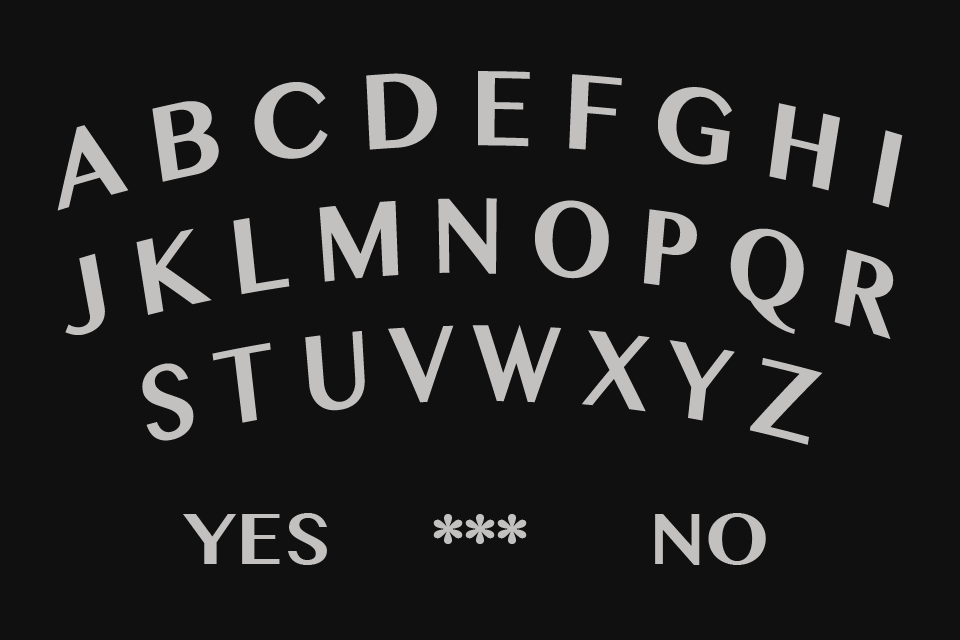
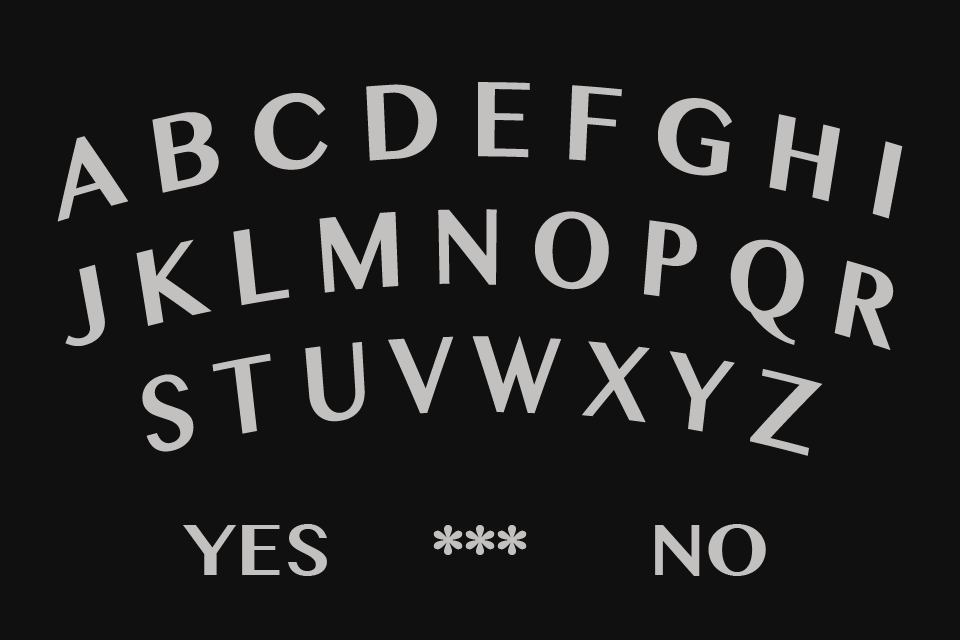
fixed background and styles

diff --git a/wwo.js b/wwo.js
@@ -2,146 +2,139 @@ var Rooms = new Meteor.Collection("rooms");
 var Forces = new Meteor.Collection("forces");
 var Messages = new Meteor.Collection("messages");
 
-
 if (Meteor.is_client) {
-Meteor.startup(function() {
-        Meteor.subscribe("rooms");
-        Meteor.subscribe("messages");
-        Meteor.setInterval(function() {
-          var theRoom = Rooms.findOne(Session.get("room"));
-         if (theRoom !== undefined)
-	 {
-          if (isNaN(Session.get("dx"))) Session.set("dx", 0);
-          if (isNaN(Session.get("dy"))) Session.set("dy", 0);
-          Meteor.call("updateMarker", Session.get("room"));
-          Meteor.call("getPosition", Session.get("room"), function(e,r) {
-           Session.set("posX", r.x);
-           Session.set("posY", r.y);
-          });
-          Forces.insert({
-            room: Session.get("room"),
-            x: Session.get("dx"),
-            y: Session.get("dy")
-          });
-         }
-       }, 100);
-});
+  Meteor.startup(function() {
+    Meteor.subscribe("rooms");
+    Meteor.subscribe("messages");
+    Meteor.setInterval(function() {
+      var theRoom = Rooms.findOne(Session.get("room"));
+      if (theRoom !== undefined)
+  	  {
+        if (isNaN(Session.get("dx"))) Session.set("dx", 0);
+        if (isNaN(Session.get("dy"))) Session.set("dy", 0);
+        Meteor.call("updateMarker", Session.get("room"));
+        Meteor.call("getPosition", Session.get("room"), function(e,r) {
+          Session.set("posX", r.x);
+          Session.set("posY", r.y);
+        });
+        Forces.insert({
+          room: Session.get("room"),
+          x: Session.get("dx"),
+          y: Session.get("dy")
+        });
+      }
+    }, 100);
+  });
+
+  Template.main.currentRoom = function() {
+    return Session.get("room") || false;
+  };
+
+  Template.rooms.availableRooms = function () {
+    return Rooms.find({});
+  };
 
   Template.rooms.events = {
     "click #addRoom": function () {
-        var roomName = $('#roomName').val();
-        if(roomName != "") {
-            Rooms.insert({
-              name: roomName
-            });
-        }
+      var roomName = $('#roomName').val();
+      if(roomName != "") {
+        Rooms.insert({name: roomName });
+      }
     }
-};
+  };
 
-Template.main.currentRoom = function() {
-    return Session.get("room") || false;
-};
-
-Template.rooms.availableRooms = function () {
-    return Rooms.find({});
-};
-
-Template.roomItem.events = {
+  Template.roomItem.events = {
     "click a.enter": function () {
-        if(Session.get("name") === undefined) {
-            var d = "Guest" + Math.floor(Math.random()*999);
-            var name = window.prompt("Name:", d);
-            if(name === "") name = d; 
-            Session.set("name", name);
-        }
-        Session.set("room", this._id);
+      if(Session.get("name") === undefined) {
+        var d = "Guest" + Math.floor(Math.random()*999);
+        var name = window.prompt("Name:", d);
+        if(name === "") name = d; 
+        Session.set("name", name);
+      }
+      Session.set("room", this._id);
     }
-};
+  };
 
-Template.room.events = {
+  Template.room.events = {
     "mousemove .gameBoard": function(e) {
-        var theRoom = Rooms.findOne(Session.get("room"));
-        Session.set("dx", ((e.pageX - parseInt($('.gameBoard').css("margin-left"))) - Session.get("posX"))/25);
-        Session.set("dy", ((e.pageY - 50) - Session.get("posY"))/25);
+      var theRoom = Rooms.findOne(Session.get("room"));
+      Session.set("dx", ((e.pageX - parseInt($('.gameBoard').css("margin-left"))) - Session.get("posX"))/25);
+      Session.set("dy", ((e.pageY - 50) - Session.get("posY"))/25);
     },
     "click #leave": function() {
-        Session.set("room", undefined);
+      Session.set("room", undefined);
     },
     "submit": function() {
-        Messages.insert({
-            room: Session.get("room"),
-            author: Session.get("name"),
-            text: $("#msg").val()
-        });
-        $("#msg").val("");
+      Messages.insert({
+        room: Session.get("room"),
+        author: Session.get("name"),
+        text: $("#msg").val()
+      });
+      $("#msg").val("");
     }
-};
+  };
 
-Template.room.roomName = function() {
-     var room = Rooms.findOne(Session.get("room"));
-     return room && room.name ;
-};
+  Template.room.roomName = function() {
+    var room = Rooms.findOne(Session.get("room"));
+    return room && room.name ;
+  };
 
-Template.room.messages = function() {
+  Template.room.messages = function() {
     return Messages.find({room: Session.get("room")});
-};
+  };
 
-Template.room.x = function() {
+  Template.room.x = function() {
     return Session.get("posX") && parseInt(Session.get("posX")) - 100;
-};
+  };
 
-Template.room.y = function() {
+  Template.room.y = function() {
     return Session.get("posY") && parseInt(Session.get("posY")) - 100;
-};
-
-
+  };
 }
 
 if (Meteor.is_server) {
   Meteor.startup(function () {
- 
-  // code to run on server at startup
-  Messages.remove({});
-
-  Meteor.publish("rooms", function() {
-    return Rooms.find({});
-  });
-  Meteor.publish("messages", function() {
-    return Messages.find({});
-  });
-
-Meteor.methods({
-  updateMarker: function(id) {
-    var theRoom = Rooms.findOne(id); 
-    if (isNaN(theRoom.x)) theRoom.x = 480;
-    if (isNaN(theRoom.y)) theRoom.y = 320;
-
-    var dx = 0;
-    var dy = 0;
-    var theForces = Forces.find({room: id});
-    theForces.forEach(function(force) {
-      dx += parseInt(force.x);
-      dy += parseInt(force.y);
+    //CLEAR MESSAGES
+    Messages.remove({});
+    //PUBLISH COLLECTIONS
+    Meteor.publish("rooms", function() {
+      return Rooms.find({});
     });
-    Forces.remove({room: id});
+    Meteor.publish("messages", function() {
+      return Messages.find({});
+    });
 
-    var newX = theRoom.x + dx;
-    var newY = theRoom.y + dy;
-    if (newX < 100) newX = 100;
-    if (newX > 860) newX = 860;
-    if (newY < 100) newY = 100;
-    if (newY > 540) newY = 540;
-    Rooms.update(id, {$set: {x: newX}});
-    Rooms.update(id, {$set: {y: newY}});      
-  },
+    Meteor.methods({
+      updateMarker: function(id) {
+        var theRoom = Rooms.findOne(id); 
+        if (isNaN(theRoom.x)) theRoom.x = 480;
+        if (isNaN(theRoom.y)) theRoom.y = 320;
 
-  getPosition: function (id) {
-    var theRoom = Rooms.findOne(id);
-    var position = {};
-    position.x = parseInt(theRoom.x);
-    position.y = parseInt(theRoom.y);
-    return position;
-  }
-});
+        var dx = 0;
+        var dy = 0;
+        var theForces = Forces.find({room: id});
+        theForces.forEach(function(force) {
+          dx += parseInt(force.x);
+          dy += parseInt(force.y);
+        });
+        Forces.remove({room: id});
+
+        var newX = theRoom.x + dx;
+        var newY = theRoom.y + dy;
+        if (newX < 100) newX = 100;
+        if (newX > 860) newX = 860;
+        if (newY < 100) newY = 100;
+        if (newY > 540) newY = 540;
+        Rooms.update(id, {$set: {x: newX}});
+        Rooms.update(id, {$set: {y: newY}});      
+      },
+      getPosition: function (id) {
+        var theRoom = Rooms.findOne(id);
+        var position = {};
+        position.x = parseInt(theRoom.x);
+        position.y = parseInt(theRoom.y);
+        return position;
+      }
+    });
   });
 }

diff --git a/wwo.html b/wwo.html
@@ -35,7 +35,7 @@
 
 <template name="roomItem">
     <li class="roomItem">
-        {{name}} <a href="javascript:void(0);" class="enter">[Enter]</a>
+        {{name}} <a href="javascript:void(0);" class="enter">[Join Room]</a>
     </li>
 </template>
 
@@ -55,9 +55,9 @@
         {{/each}}
     </ul>
     <form action="javascript:void(0)">
-        <label for="msg">Message: </label>
+        <label for="msg">Chat:</label>
         <input id="msg" />
-        <button type="submit">&rArr; Send</button>
+        <button type="submit">Send</button>
     </form>
     </div>
     </div>

diff --git a/wwo.css b/wwo.css
@@ -251,7 +251,7 @@ width: 960px;
 height: 640px;
 position: relative;
 margin: 0 auto;
-background-image:url('http://i.imgur.com/fjTOk.png');
+background-image:url('http://i.imgur.com/ZixCI.png');
 }
 
 .marker {
@@ -272,9 +272,9 @@ position: fixed;
 bottom: 0;
 right: 0;
 background: #DDD;
-padding: 0 10px;
+padding: 0 10px 10px 10px;
 }
 
-.author {
+label, .author {
 font-weight: bold;
 }
